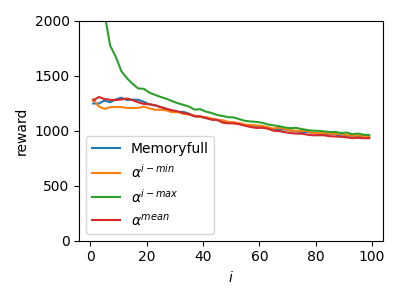
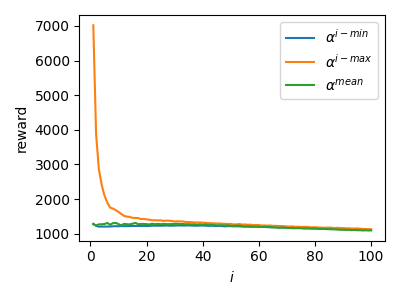
QEST Small updates to case studies

diff --git a/QEST23/qest23.tex b/QEST23/qest23.tex
@@ -805,7 +805,7 @@ for the $(0.9,0.9)$ region).
 
 
 
-\section{UPPAAL Stratego Case Studies}
+\section{U{\small{PPAAL}} S{\small{TRATEGO}} Case Studies}
 
 Our method is evaluated on two case-studies, the dc-dc boost converter\cite{dcdcconverter}
 and the bouncing ball\cite{playball}. 
@@ -821,9 +821,9 @@ A controller can add energy to the system by hitting the ball.
 The integrated height of the ball is used as the reward signal, while abstaining from hitting the ball
 yields additional reward.
 
-These two models are modified to act as IMPDs under a partition $\partition_i$, 
-such that there are $i$ regions along each axis. 
-The input signal of the controller is changed to be the region corresponding to the model's state.  
+Using \uppaalstratego, models are created of IMDPs which correspond to the case studies, 
+with a partition $\partition_i$ such that there are $i$ regions along each axis. 
+%A strategy is learned using the region indices as reward signals.
 Additionally, an  adversary is implemented to select a state and reward from somewhere within the current region.
 
 To model the adversary, $\alphaimin$ is defined for the bouncing ball as picking the corner of a region 
@@ -832,21 +832,22 @@ For the boost converter, the voltage furthest from the 15V target is picked.
 The remaining state vareiables are the current and the consumption.
 These are picked on the assumption that a higher current will lead to a higher voltage in the next step,
 while a higher consumption will cause the voltage to drop.
-The $\alphamean$, is set to pick the centre of the region, while $\alphaimax$ works analogously to $\alphaimin$.
+The $\alphamean$, is set to pick the centre of the region, while $\alphaimax$ is picked analogously to $\alphaimin$.
 
-\begin{figure}
+\begin{figure}[t]
   \begin{minipage}{0.45\linewidth}
   \includegraphics[width=1\textwidth]{./Figures/BB.png}
   \end{minipage}
   \begin{minipage}{0.45\linewidth}
   \includegraphics[width=1\textwidth]{./Figures/DC.png}
   \end{minipage}
-  \caption{Learning outcomes of the bounding ball (left) and the DC-DC boost converter (right) TODO: Full data.}
+  \caption{Learning outcomes of the bouncing ball (left) and the DC-DC boost converter (right)}
   \label{fig:casestudies}
 \end{figure}
 
-Figure~\ref{fig:casestudies} shows the expected reward of an agent trained in an IMDP of varying granularity $i$.
-It can (hopefully) be seen that for both agents, the adversary modelled as $\alphaimin$ generally acts as 
+Figure~\ref{fig:casestudies} shows the expected reward of an agent trained for a constant number of episodes, 
+on IMDPs of varying granularity $i$.
+It can be seen that for both agents, the adversary modelled as $\alphaimin$ generally acts as 
 the lower bound of training outcomes, while $\alphaimax$ provides the upper bound, 
 with the uniformly sampled adversary providing outcomes that lay between them. 
 
